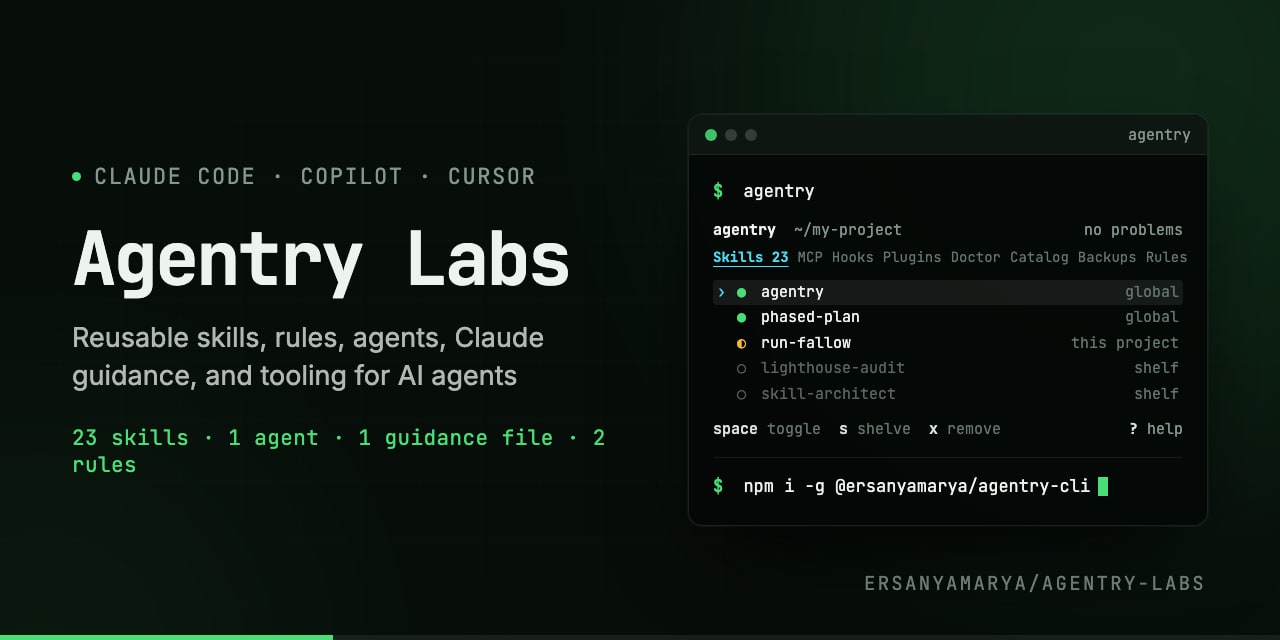
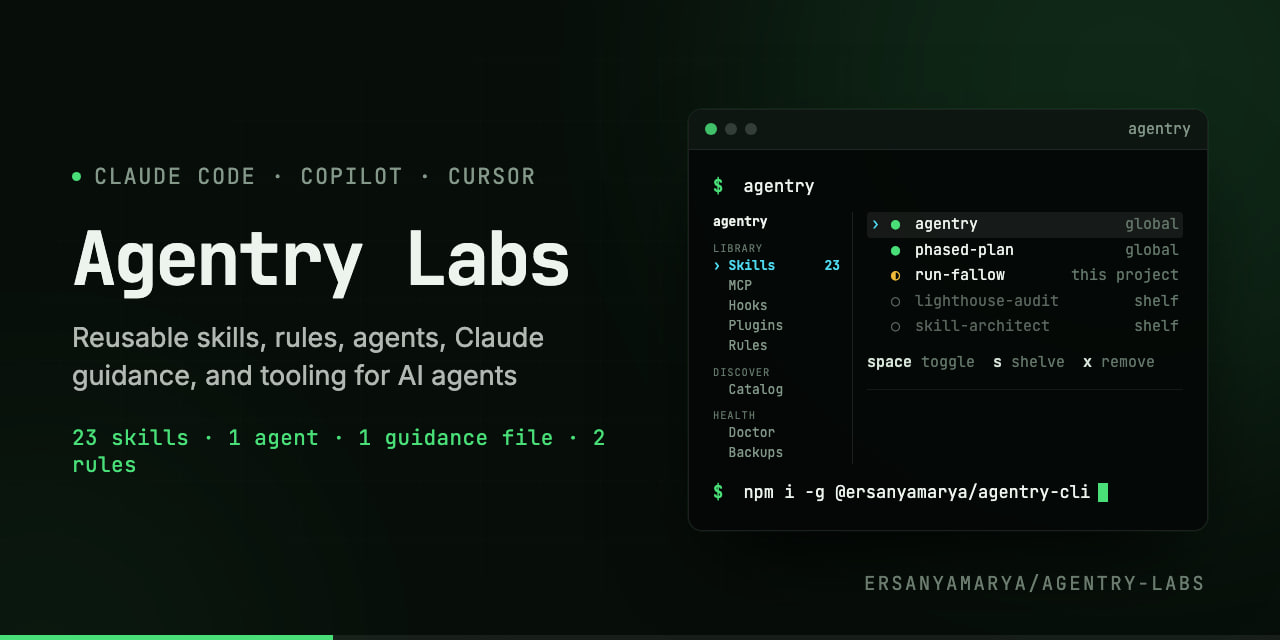
feat(web): ship the web UI in the package; pack:check runs agentry ui from the install; docs and cover show the sidebar

diff --git a/scripts/image-gen-tools/generate-cover.ts b/scripts/image-gen-tools/generate-cover.ts
@@ -31,7 +31,7 @@ const counts = [plural(skills.length, 'skill'), plural(agents.length, 'agent'), 
   .filter(Boolean)
   .join(' · ');
 
-// The terminal shows the `agentry` TUI (cli/): header, tabs, a few real skill names with their state mark, the row's keys.
+// The terminal shows the `agentry` TUI (cli/): the sidebar, a few real skill names with their state mark, the row's keys.
 // Marks and scopes are illustrative; the names and the Skills count come from skills/.
 const SHOWN = ['agentry', 'phased-plan', 'run-fallow', 'lighthouse-audit', 'skill-architect'].filter((s) => skills.includes(s));
 const rowStates = [
@@ -41,8 +41,19 @@ const rowStates = [
   ['○', 'off', 'shelf'],
   ['○', 'off', 'shelf'],
 ] as const;
-const tabs = ['Skills', 'MCP', 'Hooks', 'Plugins', 'Doctor', 'Catalog', 'Backups', 'Rules']
-  .map((t, i) => `<span class="${i === 0 ? 'tab on' : 'tab'}">${t}${i === 0 ? ` ${skills.length}` : ''}</span>`)
+// The sidebar groups, as in the TUI and the web UI. Only the Skills count is real (from skills/); the rest stay bare.
+const rail = [
+  ['LIBRARY', ['Skills', 'MCP', 'Hooks', 'Plugins', 'Rules']],
+  ['DISCOVER', ['Catalog']],
+  ['HEALTH', ['Doctor', 'Backups']],
+] as const;
+const railHtml = rail
+  .map(
+    ([label, items]) =>
+      `<div class="glabel">${label}</div>${items
+        .map((t) => `<div class="item${t === 'Skills' ? ' on' : ''}"><span>${t === 'Skills' ? '› ' : '  '}${t}</span><span>${t === 'Skills' ? skills.length : ''}</span></div>`)
+        .join('')}`,
+  )
   .join('');
 const tuiRows = SHOWN.map((name, i) => {
   const [mark, cls, scope] = rowStates[i] ?? rowStates[0];
@@ -61,10 +72,13 @@ const body = `
     <div class="bar"><i></i><i></i><i></i><span>agentry</span></div>
     <div class="screen">
       <p class="cmd"><b>$</b> agentry</p>
-      <p class="head"><strong>agentry</strong>  ~/my-project<span class="r">no problems</span></p>
-      <p class="tabs">${tabs}</p>
-      <ul>${tuiRows}</ul>
-      <p class="keys"><b>space</b> toggle  <b>s</b> shelve  <b>x</b> remove<span class="r"><b>?</b> help</span></p>
+      <div class="split">
+        <div class="rail"><p class="brand"><strong>agentry</strong></p>${railHtml}</div>
+        <div class="main">
+          <ul>${tuiRows}</ul>
+          <p class="keys"><b>space</b> toggle  <b>s</b> shelve  <b>x</b> remove</p>
+        </div>
+      </div>
       <p class="cmd inst"><b>$</b> npm i -g @ersanyamarya/agentry-cli<span class="cursor"></span></p>
     </div>
   </div>
@@ -87,11 +101,15 @@ const css = `
   .bar span{margin-left:auto}
   .screen{padding:22px 24px 24px;font-size:15px;line-height:1.7;color:oklch(0.9 0.02 150)}
   .cmd{color:oklch(0.96 0.01 150);font-size:17px} .cmd b{color:oklch(0.8 0.19 150);font-weight:600;margin-right:10px}
-  .head{display:flex;margin-top:12px;color:oklch(0.66 0.03 155);white-space:pre} .head strong{color:oklch(0.96 0.01 150)}
   .r{margin-left:auto;color:oklch(0.66 0.03 155)}
-  .tabs{display:flex;gap:9px;white-space:nowrap;color:oklch(0.55 0.03 155);font-size:14px;margin-top:2px}
-  .tab.on{color:oklch(0.82 0.12 210);font-weight:700;text-decoration:underline;text-underline-offset:4px}
-  ul{list-style:none;margin:10px 0 10px;padding:0}
+  .split{display:flex;margin-top:12px}
+  .rail{flex:0 0 140px;border-right:1px solid oklch(1 0 0 / 0.1);padding-right:12px;font-size:13px;line-height:1.55;color:oklch(0.66 0.03 155)}
+  .brand{color:oklch(0.96 0.01 150);margin-bottom:4px}
+  .glabel{font-size:10.5px;letter-spacing:0.08em;color:oklch(0.55 0.03 155);margin-top:7px}
+  .item{display:flex;justify-content:space-between;white-space:pre}
+  .item.on{color:oklch(0.82 0.12 210);font-weight:700}
+  .main{flex:1;min-width:0;padding-left:14px}
+  ul{list-style:none;margin:0 0 10px;padding:0}
   .row{display:flex;gap:10px;white-space:pre;padding:0 4px;border-radius:4px}
   .row .cur{width:10px;color:oklch(0.82 0.12 210)} .row .mark{width:14px}
   .row .name{flex:1;color:oklch(0.96 0.01 150)} .row .scope{color:oklch(0.55 0.03 155)}

diff --git a/docs/web-ui-plan.md b/docs/web-ui-plan.md
@@ -261,10 +261,10 @@ Decisions log. The smoke test passes from the installed tarball. The cover image
 
 | Done | Task | Model |
 |---|---|---|
-| [ ] | Ship the web build. Make `npm run build` build `packages/web` and place its client and server output where `serve.ts` finds it from an installed package (for example `dist/web/`). Update `files` and `prepublishOnly`. Make sure no dev-only dependency (vite, the shadcn CLI, Testing Library) is needed at runtime. Add a size budget to `pack:check`: record today's size, and fail above it plus 20%. | claude-sonnet-5-5 |
-| [ ] | Add a full-stack smoke test to `pack:check`. It installs the tarball into a temp prefix, runs `agentry ui --no-open --port <free>` against a temp `CLAUDE_CONFIG_DIR`, fetches the token URL, follows the redirect with the cookie, gets `/skills` with a 200 and the sidebar text, calls one read procedure, and stops the server. | claude-sonnet-5-5 |
-| [ ] | Update the docs. `cli/README.md` gets an `agentry ui` section covering the web app, the security model in two lines, `--port` and `--no-open`, and `agentry tui`. Also update `cli/CLAUDE.md` (Layout, Commands, web test steps), the root `CLAUDE.md` architecture block (`packages/web`) and the root `README.md` CLI paragraph. Add `cli/CHANGELOG.md` entries for the web UI. | claude-haiku-5-5 |
-| [ ] | Regenerate the README cover (`cd scripts/image-gen-tools && bun install && bun run cover`). Check the printed counts, run `verify-images.mjs` as in Done when, and view the image before committing. | claude-haiku-5-5 |
+| [x] | Ship the web build. Make `npm run build` build `packages/web` and place its client and server output where `serve.ts` finds it from an installed package (for example `dist/web/`). Update `files` and `prepublishOnly`. Make sure no dev-only dependency (vite, the shadcn CLI, Testing Library) is needed at runtime. Add a size budget to `pack:check`: record today's size, and fail above it plus 20%. | claude-sonnet-5-5 |
+| [x] | Add a full-stack smoke test to `pack:check`. It installs the tarball into a temp prefix, runs `agentry ui --no-open --port <free>` against a temp `CLAUDE_CONFIG_DIR`, fetches the token URL, follows the redirect with the cookie, gets `/skills` with a 200 and the sidebar text, calls one read procedure, and stops the server. | claude-sonnet-5-5 |
+| [x] | Update the docs. `cli/README.md` gets an `agentry ui` section covering the web app, the security model in two lines, `--port` and `--no-open`, and `agentry tui`. Also update `cli/CLAUDE.md` (Layout, Commands, web test steps), the root `CLAUDE.md` architecture block (`packages/web`) and the root `README.md` CLI paragraph. Add `cli/CHANGELOG.md` entries for the web UI. | claude-haiku-5-5 |
+| [x] | Regenerate the README cover (`cd scripts/image-gen-tools && bun install && bun run cover`). Check the printed counts, run `verify-images.mjs` as in Done when, and view the image before committing. | claude-haiku-5-5 |
 
 ## Out of scope
 
@@ -310,3 +310,4 @@ Decisions log. The smoke test passes from the installed tarball. The cover image
 | 2026-11-12 | `src/tui/data.ts` (`createData`) moves to core as `@agentry/core/data`. Confirmed: it imports only `../lib/*`, with no Ink or React. `src/tui/rows.ts`'s `tokenBreakdown` **stays in tui**. Its only users are `rows.ts`'s `skillRows` summary and `tui-search-bulk.test.ts`, and it takes the TUI `Data` type. If web needs it later, it moves to core in that task. The `Api` and `Data` types (`ReturnType<typeof createData>`, `ReturnType<Api["load"]>`) stay in `packages/tui/src/types.ts`. When web needs them, core's `data.ts` exports them, and web never imports tui. |
 | 2026-11-13 | Phase 3 notes. (1) `toggleShelf` and `shelveSkill` never write a backup (core only backs up removals, restores and fix-engine writes), so the end-to-end test checks the backup after `removeSkill`, not after a toggle. (2) The contract gained an `info` procedure (`{ dir, version }`): the browser needs the folder `agentry ui` ran in before it can call `load`. (3) SSR uses `@tanstack/react-router-ssr-query` (`setupRouterSsrQueryIntegration`); the older `react-router-with-query` failed on the server render with a query in the root. (4) `serve.ts` allows `script-src 'unsafe-inline'` because TanStack Start emits inline bootstrap scripts; a nonce needs `createRouter({ ssr: { nonce } })` and is a follow-up. (5) The built server imports bare packages (react, `@tanstack/*`, ...), so Phase 7 must put them in the root `dependencies` or bundle them. (6) Core: `removeSkill({ project: true, target: ".." })` resolves to the project's `.claude` folder; the web contract blocks it, but the CLI path does not. Fix separately. (7) shadcn generated `import "cn"` and added the unrelated `cn` npm package; the imports now use `@/lib/utils` and the package is removed. `sonner.tsx` no longer uses `next-themes`. (8) The design file's "card" blocks are flat in the web UI (no containers, full width), per the 2026-11-12 rule in the design file; Skills rows have no description line because `load` carries none for skills, so the second line shows group and tokens. |
 | 2026-11-13 | Phases 4-6 were built together on one branch (`web-ui/phase-4`): Doctor, Catalog, MCP, Hooks, Plugins, Rules and Backups, all on the shared `ListScreen`, `DetailsPanel` and `usePreviewFlow` (preview text, then Apply; `y` and `n` work as keys). The parity test passes with an empty left-out list: every `createData` method has a procedure. Doctor has no "passing checks" row because `load` carries findings only, not a count of passing checks. The Catalog page fetches only when asked (never on its own). Lists show "Loading..." until `load` answers, so an empty state never flashes. |
+| 2026-11-13 | Phase 7: the server bundle is self-contained (`ssr.noExternal: true` in `packages/web/vite.config.mts`), so no web dependency was added to the root `dependencies`; it imports and runs from a copy with no `node_modules`. The tarball is 4.27 MB unpacked (budget 5.2 MB in `scripts/pack-check.mjs`, about 20% over). `pack:check` now installs the tarball, starts `agentry ui` from the install and checks the token exchange, a page, an rpc read and the 401 without a cookie. The README cover shows the sidebar. The web docs were not updated beyond the READMEs, CLAUDE.md files and CHANGELOG. |

diff --git a/cli/CLAUDE.md b/cli/CLAUDE.md
@@ -8,14 +8,14 @@ Run from `cli/` (the npm workspace root; one `npm install` links every package):
 
 ```bash
 npm install                  # deps for the CLI and all packages/*
-npm run build                # esbuild bundles src/bin/agentry.ts plus workspace code -> dist/bin/ (lazy TUI chunk)
-npm test                     # builds dist/ once (globalSetup), then vitest runs the cli, core and tui projects
-npx vitest run --project core   # one package's tests (cli | core | tui)
+npm run build                # builds the web app (vite) into dist/web, then esbuild bundles src/bin/agentry.ts plus workspace code -> dist/bin/ (lazy TUI and web chunks)
+npm test                     # builds dist/ once (globalSetup), then vitest runs the cli, core, tui and web projects
+npx vitest run --project core   # one package's tests (cli | core | tui | web)
 npm run typecheck            # tsc -p packages/core && tsc -p packages/tui && tsc -p .  (noEmit; esbuild does the emit)
 npm run lint                 # biome lint .
 npm run format               # biome format --write .
 npm run check                # biome check . (includes the package boundary rules)
-npm run pack:check           # builds, packs, installs the tarball into a temp prefix and runs agentry --help/--version/status
+npm run pack:check           # builds, packs, checks the size budget, installs the tarball into a temp prefix, runs agentry --help/--version/status, and starts agentry ui from the install
 npm link                     # puts `agentry` on PATH from dist/ (run npm run build first)
 ```
 
@@ -31,7 +31,7 @@ their `exports` point at TypeScript source. They reach the tarball only by being
 - `packages/core/` (`@agentry/core`, imported per file as `@agentry/core/<file>`): command modules; `types.ts` holds config shapes; `version.ts` finds the CLI's `package.json` by walking up; `renames.json` is imported as JSON (inlined by the bundle); `data.ts` (`createData`) is the facade both UIs call
 - `packages/core/src/inventory/`: readers for skills, MCP servers, hooks and plugins
 - `packages/tui/` (`@agentry/tui`, exports `run` from `src/index.tsx`): Ink UI in TSX (`app.tsx`, `components/`, pure helpers such as `rows.ts`, `icons.ts`, `theme.ts`)
-- `packages/web/` (`@agentry/web`, from Phase 3 of `docs/web-ui-plan.md`): TanStack Start app; the CLI imports `@agentry/web/serve`
+- `packages/web/` (`@agentry/web`): TanStack Start app and its local server. `src/serve.ts` + `src/serve/` are the token/cookie/Host/Origin server the CLI imports as `@agentry/web/serve`; `src/contract/` is the oRPC contract, `src/server/router.ts` implements it over `createData`; `src/components/` the screens (shared `list-screen`, `details-panel`, `preview-flow`); `src/components/ui/` is shadcn output, kept as shipped. Design: `docs/web-ui-design.md`
 - Boundaries (Biome `noRestrictedImports` overrides plus `noUndeclaredDependencies` per `package.json`): core imports no `react`, `ink*` or `@tanstack/*`; tui and web import `@agentry/core/*` only, never each other
 - Tests sit with the package whose code they import: `packages/core/src/test/` (in-process lib tests), `packages/tui/src/test/` (`tui-*.test.ts`, helper `helpers/tui.tsx`), `src/test/` (tests that spawn the CLI: router, scan, shelf and the other command tests, `tui-pty`, `tui-loader`)
 - `src/test/helpers/`: shared by every package's tests: `fixture.ts` and `fake-claude.ts` build temp HOME and project dirs, `paths.ts` locates the CLI root and bin, `build.ts` is the vitest globalSetup, `pty-run.py` drives the TUI in a pty

diff --git a/cli/README.md b/cli/README.md
@@ -1,6 +1,6 @@
 # agentry
 
-`agentry` shows and manages what a Claude Code session loads: skills, MCP servers, hooks, plugins, and CLAUDE.md and rule files. It keeps a skill shelf, backs up every file it changes, installs items from the agentry-labs catalog, and opens a terminal UI with `agentry tui`.
+`agentry` shows and manages what a Claude Code session loads: skills, MCP servers, hooks, plugins, and CLAUDE.md and rule files. It keeps a skill shelf, backs up every file it changes, installs items from the agentry-labs catalog, and opens a terminal UI with `agentry tui` or a local web UI with `agentry ui`.
 
 It is written in strict TypeScript (ESM) and needs Node.js 22 or newer. It lives in this repo's `cli/` folder; the repo overview is in the [root README](../README.md).
 
@@ -42,6 +42,7 @@ Without linking, `npm install -g /path/to/agentry-labs/cli` also works.
 - `src/bin/agentry.ts`: the command router
 - `packages/core/`: the command modules (shelf, catalog, scan, fix and undo, doctor, status, MCP, hook and plugin toggles, rules, backups, tokens, paths), `data.ts` (the facade both UIs call) and `inventory/` (readers for skills, MCP servers, hooks and plugins)
 - `packages/tui/`: the Ink terminal UI (TSX) behind `agentry tui`
+- `packages/web/`: the web UI behind `agentry ui` (TanStack Start, Tailwind, shadcn components) and its local server; `src/contract/` is the typed rpc between them, `src/server/router.ts` implements it over core
 - These are npm workspaces; `npm run build` bundles them into the one published package with esbuild
 - `src/test/`: vitest suites; `src/test/helpers/` builds a temp HOME and project
 - `docs/`: design docs, including `claude-config-sources.md` (what Claude Code reads and where)
@@ -135,6 +136,19 @@ agentry ui                     # web UI on 127.0.0.1 (see agentry ui below)
 ```
 
 `agentry --help` loads no UI code, so it works even before `npm install`. Run tests with `npm test`.
+
+### agentry ui
+
+`agentry ui` serves a local web UI for the same things the terminal UI does: Skills, MCP, Hooks, Plugins, Rules, Catalog, Doctor and Backups, in a sidebar with the same three groups. Run it from the project folder:
+
+```bash
+agentry ui                       # picks a free port, prints a URL with a one-time token, opens your browser
+agentry ui --no-open --port 4200 # print the URL only, on a port you choose
+```
+
+It is a local tool and stays one. The server listens on `127.0.0.1` only. The printed URL carries a random token that is swapped for an `HttpOnly`, `SameSite=Strict` cookie on the first visit (and removed from the address bar); every other request needs that cookie, a wrong `Host` is refused, and a write from another origin is refused. Stop it with Ctrl-C.
+
+Every change goes through the same backup-first functions as the terminal UI. A change that has a preview shows it first and writes nothing until you press Apply (`y`; `n` cancels). Removals keep a copy that Backups can restore. Secrets in MCP servers and hook commands are masked before they reach the browser. The keys match the terminal UI: `↑ ↓` move, `space` turns the row on or off in the scope picked in the sidebar (Global or This project), `s` shelve, `x` remove, `/` search, `?` help.
 
 ### agentry tui
 

diff --git a/cli/CHANGELOG.md b/cli/CHANGELOG.md
@@ -2,6 +2,7 @@
 
 ## Unreleased
 
+- Web UI: `agentry ui` serves a local web app (TanStack Start, shadcn components) on 127.0.0.1 behind a one-time token, with all eight sections (Skills, MCP, Hooks, Plugins, Rules, Catalog, Doctor, Backups). Writes use the same backup-first functions as the terminal UI; previewed changes wait for Apply. `--port` and `--no-open` are options. The package ships the built app (about 3 MB more).
 - **Breaking:** `agentry ui` now serves the web UI (127.0.0.1, behind a one-time token; `--port`, `--no-open`). The terminal UI moved to `agentry tui`; a bare `agentry` in a terminal still opens it.
 - Internal: the CLI is split into npm workspaces (`packages/core` for the command modules, `packages/tui` for the terminal UI) and bundled with esbuild; `npm run pack:check` installs the packed tarball and runs it. No behaviour change.
 - Terminal UI sidebar: the top tabs are replaced by a left rail with three groups (Library, Discover, Health) holding the section counts, the project path, tokens and problems; `tab` moves the keys between the rail and the list (`↑`/`↓` pick a section on the rail), and the `1`-`8` keys follow the new order: Skills, MCP, Hooks, Plugins, Rules, Catalog, Doctor, Backups. The rail is 22 columns from 90, 16 from 70, and a one-line header below that.

diff --git a/CLAUDE.md b/CLAUDE.md
@@ -38,7 +38,7 @@ Remember, before writing any code:
 ├── global/              # settings.fragment.json + mcp.json, merged by scripts/apply-global.mjs; hooks/ holds hook scripts it copies to ~/.claude/hooks (prefer-trail.mjs: denies grep/cat/find on source in trail-indexed repos, `# no-trail: <why>` overrides)
 ├── bundles.tsv          # tags each component `global`, `flutter`, `mongodb` or `web`; used by install.sh --bundle
 ├── scripts/             # install.sh, utils.sh, apply-global.mjs, skill-drift.mjs, image-gen-tools/ (README cover generator)
-├── cli/                 # agentry CLI and Ink terminal UI, in TypeScript (src/bin; npm workspaces packages/core and packages/tui; design docs in cli/docs). See cli/README.md and cli/CLAUDE.md
+├── cli/                 # agentry CLI and Ink terminal UI, in TypeScript (src/bin; npm workspaces packages/core, packages/tui and packages/web; design docs in cli/docs). See cli/README.md and cli/CLAUDE.md
 └── .github/             # CI (validates every skill) and assets/cover.jpg
 ```
 

diff --git a/README.md b/README.md
@@ -100,7 +100,7 @@ installs never copy them back. Turn them on with `agentry shelf on <group>`; eve
 
 ### agentry CLI
 
-`agentry` is the TypeScript CLI in [`cli/`](cli/). It shows what a Claude Code session loads, manages MCP servers, hooks, plugins and the skill shelf, and has a terminal UI (`agentry tui`). It needs Node.js 22 or newer.
+`agentry` is the TypeScript CLI in [`cli/`](cli/). It shows what a Claude Code session loads, manages MCP servers, hooks, plugins and the skill shelf, and has a terminal UI (`agentry tui`) and a local web UI (`agentry ui`). It needs Node.js 22 or newer.
 
 ```bash
 npm install -g @ersanyamarya/agentry-cli   # puts `agentry` on your PATH
